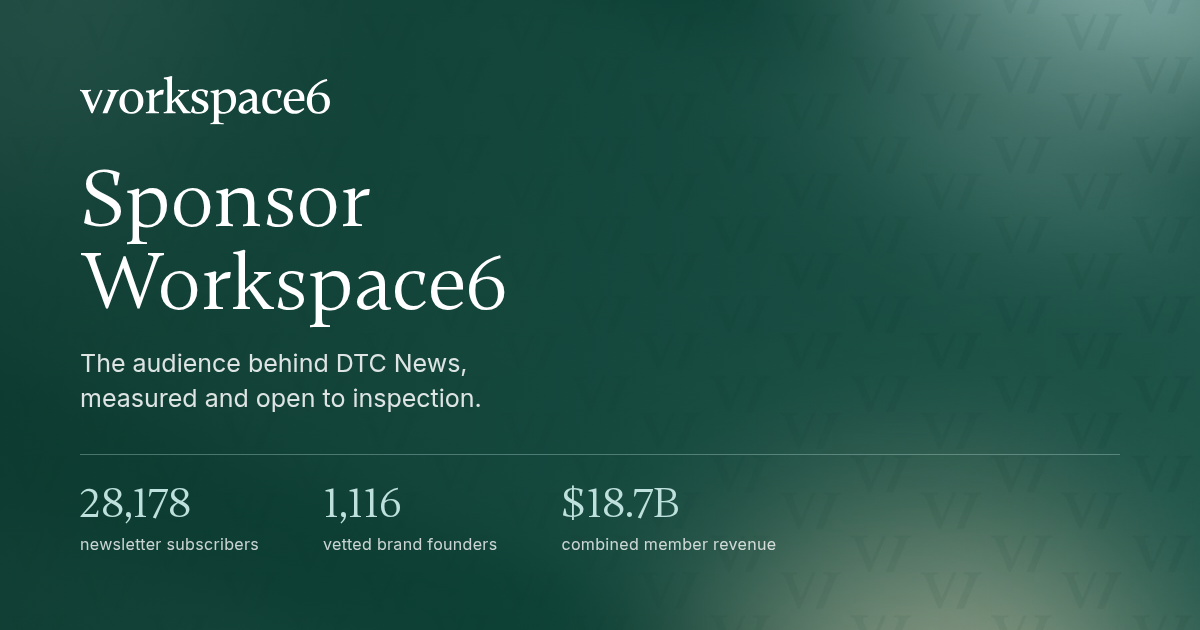
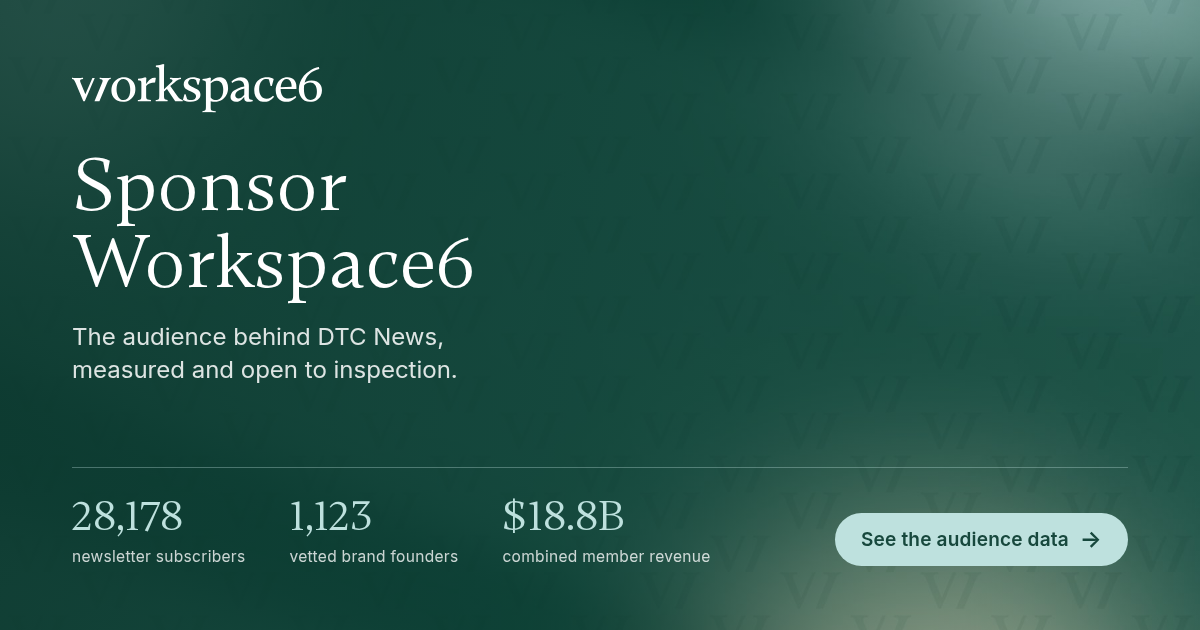
Weekly refresh 2026-10-06

diff --git a/index.html b/index.html
@@ -3,21 +3,21 @@
 <head>
 <meta charset="utf-8">
 <meta name="viewport" content="width=device-width,initial-scale=1">
-<title>Sponsor Workspace6</title>
-<meta name="description" content="28,178 ecommerce operators read DTC News, and 1,123 vetted brand founders running a combined $18.8 billion are in the Workspace6 community. Every figure here comes from our own systems, with the method for each one stated.">
+<title>Sponsor Workspace6 | Audience Data for DTC Partners</title>
+<meta name="description" content="28,178 ecommerce operators read DTC News, and 1,123 vetted brand founders running $18.8B are in the community. Every figure sourced and open to inspection.">
 <link rel="canonical" href="https://sponsor.workspace6.io/">
 <meta property="og:type" content="website">
 <meta property="og:site_name" content="Workspace6">
 <meta property="og:url" content="https://sponsor.workspace6.io/">
 <meta property="og:title" content="Sponsor Workspace6">
-<meta property="og:description" content="28,178 ecommerce operators read DTC News, and 1,123 vetted brand founders running a combined $18.8 billion are in the Workspace6 community. Every figure here comes from our own systems, with the method for each one stated.">
+<meta property="og:description" content="28,178 ecommerce operators read DTC News, plus 1,123 vetted founders running $18.8B. Every figure open to inspection.">
 <meta property="og:image" content="https://sponsor.workspace6.io/og.png">
 <meta property="og:image:width" content="1200">
 <meta property="og:image:height" content="630">
-<meta property="og:image:alt" content="Sponsor Workspace6 - audience figures for DTC News and the Workspace6 community">
+<meta property="og:image:alt" content="Sponsor Workspace6: 28,178 newsletter subscribers and 1,123 vetted brand founders. See the audience data.">
 <meta name="twitter:card" content="summary_large_image">
 <meta name="twitter:title" content="Sponsor Workspace6">
-<meta name="twitter:description" content="28,178 ecommerce operators read DTC News, and 1,123 vetted brand founders running a combined $18.8 billion are in the Workspace6 community. Every figure here comes from our own systems, with the method for each one stated.">
+<meta name="twitter:description" content="28,178 ecommerce operators read DTC News, plus 1,123 vetted founders running $18.8B. Every figure open to inspection.">
 <meta name="twitter:image" content="https://sponsor.workspace6.io/og.png">
 <meta name="theme-color" content="#265c51">
 <link rel="icon" href="favicon.svg" type="image/svg+xml">
